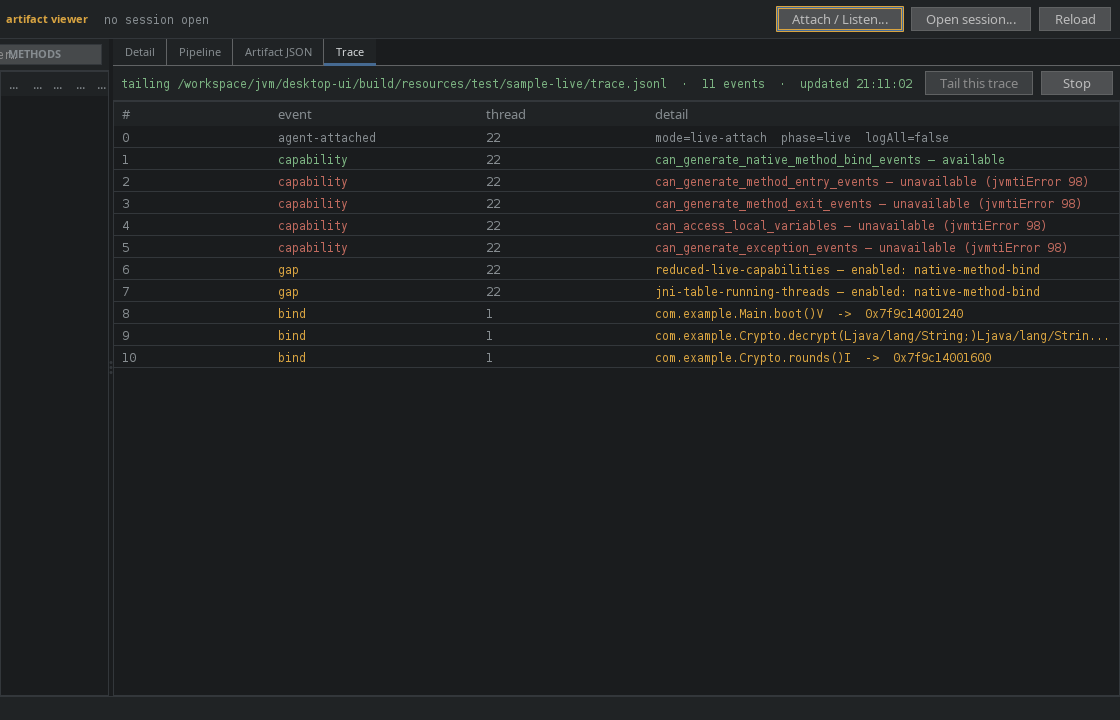
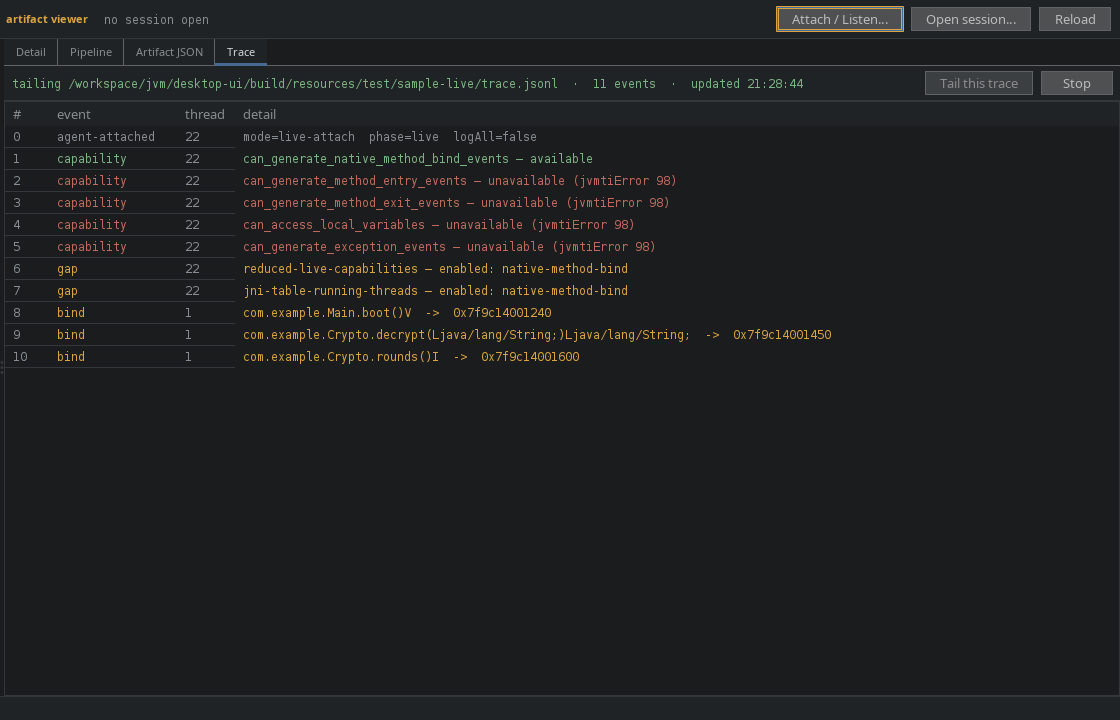
fix(desktop-ui): readable live-tail trace + tighter attach copy
- Wrap the trace detail column and grow row height so capability/gap
  explanations show in full instead of clipping mid-sentence (esp. the
  no-core-capabilities gap row).
- Give a session-less live tail the full window: collapse the empty
  methods pane deterministically; restore the balanced split for a real
  session.
- Hard-pin the #/event/thread columns so detail keeps the spare width;
  widen event column to fit agent-attached.
- Rewrite the attach-form intro shorter and plainer.
- Re-export screenshots (07-09 and toolbar re-check 01-06).
- Add docs/reviews/desktop-live-attach.md.

diff --git a/jvm/desktop-ui/src/main/kotlin/j2c/desktop/ViewerFrame.kt b/jvm/desktop-ui/src/main/kotlin/j2c/desktop/ViewerFrame.kt
@@ -25,6 +25,7 @@ import javax.swing.JTextField
 import javax.swing.ListSelectionModel
 import javax.swing.RowFilter
 import javax.swing.SwingConstants
+import javax.swing.SwingUtilities
 import javax.swing.event.DocumentEvent
 import javax.swing.event.DocumentListener
 import javax.swing.table.TableRowSorter
@@ -58,6 +59,7 @@ class ViewerFrame : JFrame("recovery artifact viewer") {
 
     private val cards = CardLayout()
     private val centerCards = JPanel(cards)
+    private lateinit var sessionSplit: JSplitPane
 
     private val traceStateLabel = JLabel(" ")
     private val traceTailButton = JButton("Tail this trace")
@@ -163,6 +165,7 @@ class ViewerFrame : JFrame("recovery artifact viewer") {
         split.resizeWeight = 0.5
         split.border = null
         split.background = Theme.BG
+        sessionSplit = split
         return split
     }
 
@@ -216,6 +219,9 @@ class ViewerFrame : JFrame("recovery artifact viewer") {
         // pull the split over on first layout). The columns above sum to a
         // little under this, so nothing is clipped.
         p.preferredSize = Dimension(548, 640)
+        // Allow the pane to collapse to zero so a session-less live tail can
+        // hand the whole window to the trace (see startTail).
+        p.minimumSize = Dimension(0, 0)
         return p
     }
 
@@ -241,11 +247,25 @@ class ViewerFrame : JFrame("recovery artifact viewer") {
             gridColor = Theme.LINE
             tableHeader.reorderingAllowed = false
             setDefaultRenderer(Any::class.java, TraceCellRenderer(traceModel))
+            // The detail column is the last one and soaks up all spare width so
+            // long capability / gap lines get the most room — critical when a
+            // live tail runs full width (no session) and a gap row explains why
+            // coverage is thin.
+            autoResizeMode = JTable.AUTO_RESIZE_LAST_COLUMN
         }
-        traceTable.columnModel.getColumn(0).preferredWidth = 44
-        traceTable.columnModel.getColumn(1).preferredWidth = 96
-        traceTable.columnModel.getColumn(2).preferredWidth = 56
+        // Hard-pin the three fixed columns so the flexible detail column keeps
+        // every spare pixel instead of the width bleeding into #/event/thread.
+        pinColumn(0, 34, 44, 60)
+        // Wide enough for the longest event label ("agent-attached").
+        pinColumn(1, 104, 128, 150)
+        pinColumn(2, 48, 58, 74)
         traceTable.columnModel.getColumn(3).preferredWidth = 360
+        // Wrap the detail so a long gap line stays fully readable rather than
+        // being clipped with an ellipsis.
+        traceTable.columnModel.getColumn(3).cellRenderer = TraceDetailRenderer(traceModel)
+        traceTable.addComponentListener(object : java.awt.event.ComponentAdapter() {
+            override fun componentResized(e: java.awt.event.ComponentEvent) = fitTraceRowHeights()
+        })
         Ui.leftAlignHeader(traceTable)
 
         tabs.font = Theme.sansSmall
@@ -255,6 +275,35 @@ class ViewerFrame : JFrame("recovery artifact viewer") {
         tabs.addTab("Trace", buildTracePanel())
         tabs.preferredSize = Dimension(556, 640)
         return tabs
+    }
+
+    private fun pinColumn(index: Int, min: Int, pref: Int, max: Int) {
+        traceTable.columnModel.getColumn(index).apply {
+            minWidth = min
+            preferredWidth = pref
+            maxWidth = max
+        }
+    }
+
+    /**
+     * Grow each trace row to fit its wrapped detail cell at the current column
+     * width. Called after the rows change and whenever the table is resized
+     * (the divider collapse for a session-less live tail resizes it), so a
+     * multi-line gap explanation is shown in full instead of being clipped.
+     */
+    private fun fitTraceRowHeights() {
+        val detailCol = 3
+        if (traceTable.columnCount <= detailCol) return
+        val width = traceTable.columnModel.getColumn(detailCol).width
+        if (width <= 1) return
+        val base = traceTable.rowHeight.coerceAtLeast(22)
+        for (r in 0 until traceTable.rowCount) {
+            val renderer = traceTable.getCellRenderer(r, detailCol)
+            val comp = traceTable.prepareRenderer(renderer, r, detailCol)
+            comp.setSize(width, Short.MAX_VALUE.toInt())
+            val h = comp.preferredSize.height.coerceAtLeast(base)
+            if (traceTable.getRowHeight(r) != h) traceTable.setRowHeight(r, h)
+        }
     }
 
     private fun buildTracePanel(): JComponent {
@@ -398,6 +447,7 @@ class ViewerFrame : JFrame("recovery artifact viewer") {
 
         methodModel.setRows(session.methods)
         traceModel.setRows(session.traceEvents)
+        SwingUtilities.invokeLater { fitTraceRowHeights() }
         updateTraceState()
         renderArtifacts(session)
 
@@ -420,6 +470,10 @@ class ViewerFrame : JFrame("recovery artifact viewer") {
         }
         jsonArea.text = ""
         cards.show(centerCards, "session")
+        // A real session gets the balanced split back (a prior session-less
+        // live tail may have collapsed the methods pane to zero).
+        sessionSplit.resizeWeight = 0.5
+        SwingUtilities.invokeLater { sessionSplit.setDividerLocation(0.5) }
 
         if (session.methods.isNotEmpty()) {
             methodTable.rowSorter = methodSorter
@@ -456,11 +510,20 @@ class ViewerFrame : JFrame("recovery artifact viewer") {
         stopTail()
         traceModel.clear()
         cards.show(centerCards, "session")
+        // With no session open there are no methods to list, so give the whole
+        // window to the trace. This keeps long capability / gap detail readable
+        // instead of squeezing it beside an empty methods table.
+        if (current == null) {
+            methodModel.setRows(emptyList())
+            sessionSplit.resizeWeight = 0.0
+            SwingUtilities.invokeLater { sessionSplit.setDividerLocation(0) }
+        }
         selectTab("Trace")
         val tailer = TraceTailer(
             path = path,
             onEvents = { events ->
                 traceModel.addRows(events)
+                fitTraceRowHeights()
                 val last = traceTable.rowCount - 1
                 if (last >= 0) traceTable.scrollRectToVisible(traceTable.getCellRect(last, 0, true))
             },

diff --git a/jvm/desktop-ui/src/main/kotlin/j2c/desktop/Components.kt b/jvm/desktop-ui/src/main/kotlin/j2c/desktop/Components.kt
@@ -11,9 +11,11 @@ import javax.swing.JLabel
 import javax.swing.JPanel
 import javax.swing.JScrollPane
 import javax.swing.JTable
+import javax.swing.JTextArea
 import javax.swing.SwingConstants
 import javax.swing.table.AbstractTableModel
 import javax.swing.table.DefaultTableCellRenderer
+import javax.swing.table.TableCellRenderer
 
 /** Method table backing model. */
 class MethodTableModel(private var rows: List<MethodRow> = emptyList()) : AbstractTableModel() {
@@ -121,7 +123,11 @@ class TraceCellRenderer(private val model: TraceTableModel) : DefaultTableCellRe
     ): Component {
         val c = super.getTableCellRendererComponent(table, value, isSelected, hasFocus, row, column)
         font = Theme.monoSmall
-        border = BorderFactory.createEmptyBorder(0, 8, 0, 8)
+        // Top-align and pad to match the wrapping detail renderer, so a row
+        // that grew taller keeps its short cells lined up with the first line
+        // of the wrapped detail instead of floating in the middle.
+        border = BorderFactory.createEmptyBorder(3, 8, 3, 8)
+        verticalAlignment = SwingConstants.TOP
         toolTipText = value?.toString()
         val kind = model.kindAt(table.convertRowIndexToModel(row))
         foreground = when (column) {
@@ -130,6 +136,34 @@ class TraceCellRenderer(private val model: TraceTableModel) : DefaultTableCellRe
         }
         horizontalAlignment = SwingConstants.LEFT
         return c
+    }
+}
+
+/**
+ * Renders the trace "detail" column as wrapped text. Capability and gap lines
+ * carry the whole story of what an attach could and could not observe; a
+ * single truncated line hides exactly the sentence a reviewer needs, so this
+ * wraps and the table grows the row (see ViewerFrame.fitTraceRowHeights).
+ */
+class TraceDetailRenderer(private val model: TraceTableModel) : JTextArea(), TableCellRenderer {
+    init {
+        lineWrap = true
+        wrapStyleWord = true
+        font = Theme.monoSmall
+        isOpaque = true
+        border = BorderFactory.createEmptyBorder(3, 8, 3, 8)
+    }
+
+    override fun getTableCellRendererComponent(
+        table: JTable, value: Any?, isSelected: Boolean,
+        hasFocus: Boolean, row: Int, column: Int,
+    ): Component {
+        text = value?.toString() ?: ""
+        toolTipText = text.ifBlank { null }
+        val kind = model.kindAt(table.convertRowIndexToModel(row))
+        background = if (isSelected) table.selectionBackground else Theme.BG
+        foreground = Theme.inkFor(kind)
+        return this
     }
 }
 

diff --git a/jvm/desktop-ui/src/main/kotlin/j2c/desktop/AttachPanel.kt b/jvm/desktop-ui/src/main/kotlin/j2c/desktop/AttachPanel.kt
@@ -90,10 +90,10 @@ class AttachPanel(
     private fun buildForm(): JComponent {
         val intro = JLabel(
             "<html><div style='width:460px'>" +
-                "The viewer runs the same <b>attach</b> CLI you would type — nothing more. " +
-                "It cannot attach without a PID and your confirmation. Attach is for a " +
-                "same-user JVM you own; coverage depends on what the JDK grants after attach, " +
-                "and the capability / gap rows in the trace say exactly what was obtained." +
+                "This runs the same <b>attach</b> command you would type — nothing more. " +
+                "It needs a PID and your confirmation first. Attach works on a same-user " +
+                "JVM you own; how much it can see depends on what the JDK grants, and the " +
+                "capability / gap rows in the trace show exactly what the attach obtained." +
                 "</div></html>"
         ).apply {
             font = Theme.sansSmall

diff --git a/docs/reviews/desktop-live-attach.md b/docs/reviews/desktop-live-attach.md
@@ -1,0 +1,85 @@
+# Desktop viewer — live attach visual review
+
+Review of the live-attach additions to the Swing desktop viewer
+(`jvm/desktop-ui`, PR #12, branch `cursor/desktop-viewer-live-attach-c9be`
+vs `cursor/swing-desktop-viewer-7389`). This was a look, copy, and gating
+pass, not a feature change. Everything was checked against rendered PNGs in
+`jvm/desktop-ui/screenshots/`, re-exported with
+`xvfb-run ./gradlew :desktop-ui:exportShots`.
+
+New in this PR: the **Attach / Listen…** toolbar entry, the attach form
+(`07-attach-form`), and two live-tail states (`08-live-tail`,
+`09-capability-gap`). The `01`–`06` artifact-session shots were re-checked
+for the changed toolbar.
+
+**Verdict: preview-ok** after the fixes below.
+
+## Issues found
+
+1. **Gap explanation unreadable — clipped mid-sentence.** In the
+   no-capabilities case (`09`) the `gap` row carries the one sentence a
+   reviewer actually needs — *why the trace will be empty* — and it was cut
+   off as `no-core-capabilities — neither native-method-b…`. The trace's
+   `detail` column was a fixed single line, so the longest capability and
+   `bind` lines were clipped too (e.g. the `decrypt` bind with its address
+   in `08`).
+2. **Live tail wasted half the window and rendered inconsistently.** When a
+   tail runs without an open session there are no methods to list, yet the
+   viewer still showed the methods table beside the trace. Worse, the empty
+   panel landed at a different width each time: a thin sliver in `08`, a full
+   empty half in `09`. The trace — the only content in that state — was
+   squeezed into the right half.
+3. **`#` / `event` / `thread` columns bled width from `detail`.** The three
+   fixed columns stretched wider than their content, taking room the long
+   `detail` text needed.
+4. **`agent-attached` event label clipped** to `agent-atta…` once the event
+   column was pinned.
+5. **Attach-form intro copy was dense.** The opening paragraph packed the
+   gate, the ownership rule, and the coverage caveat into one long run-on.
+
+The **Run attach** gate was checked and is correct: the button stays
+disabled until a valid PID, the ownership tick, and an output path are all
+present, and the shown command only carries `--i-own-this-process` when the
+box is ticked. No "run without ownership" path exists. No generic chrome
+was found — the toolbar and buttons use plain, neutral labels and the
+single-accent instrument-panel palette holds.
+
+## Issues fixed
+
+1. The `detail` column now wraps (`TraceDetailRenderer`) and the table grows
+   the row to fit (`ViewerFrame.fitTraceRowHeights`, recomputed on data
+   change and on resize). The `no-core-capabilities` sentence in `09` now
+   shows in full across two lines; the long `bind` and capability lines in
+   `08` are complete.
+2. A session-less live tail now hands the whole window to the trace: the
+   methods pane is collapsed deterministically (divider set to 0 via an
+   explicit `setDividerLocation`, methods panel `minimumSize` 0), and a real
+   session restores the balanced split. `08` and `09` now look the same and
+   the trace uses the full width.
+3. The three fixed columns are hard-pinned (min/preferred/max) so `detail`,
+   the last column, keeps every spare pixel.
+4. The event column was widened to fit the longest label
+   (`agent-attached`).
+5. The intro was rewritten shorter and plainer: what it runs, that it needs
+   a PID and confirmation first, and that coverage is whatever the JDK
+   grants — pointing at the capability / gap rows for the specifics.
+
+## Leftovers
+
+- The long `detail` explanations are visible in full via wrapping, but the
+  raw JSON fields behind a `gap` (the individual `methodEntry` /
+  `localVariables` booleans) are still summarised into one line rather than
+  broken out. The summary plus the per-capability rows above it already tell
+  the same story, so this was left as-is.
+- The **Attach / Listen…** button shows the focus ring in the shots because
+  it is the default-focused button when the window opens. This is ordinary
+  focus state, not a highlight. Left as-is.
+
+## Build / test notes
+
+- The module targets JDK 21 while the rest of `jvm/` targets JDK 17. On a
+  box with only JDK 21 the build fails to resolve the `:common` toolchain;
+  installing a JDK 17 alongside 21 lets Gradle's toolchain auto-detection
+  build it. No gradle change was needed, so the JDK split was left alone.
+- `./gradlew :desktop-ui:test` passes.
+- Screenshots re-exported after the changes.
